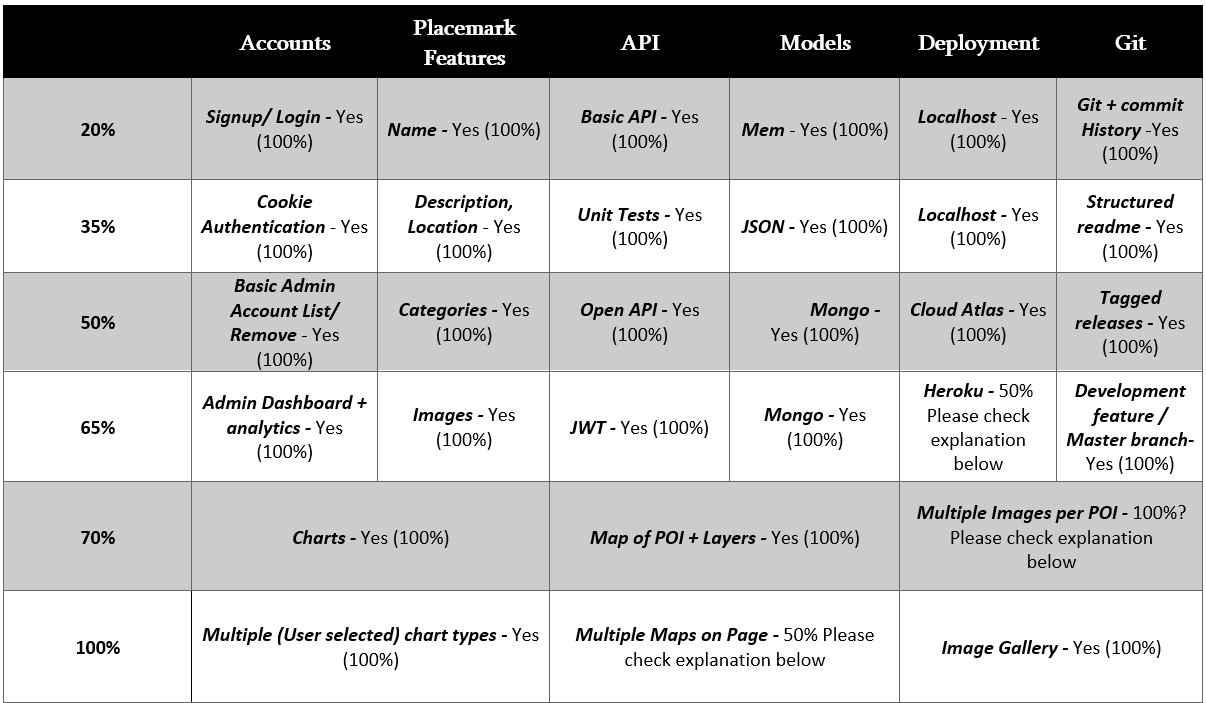
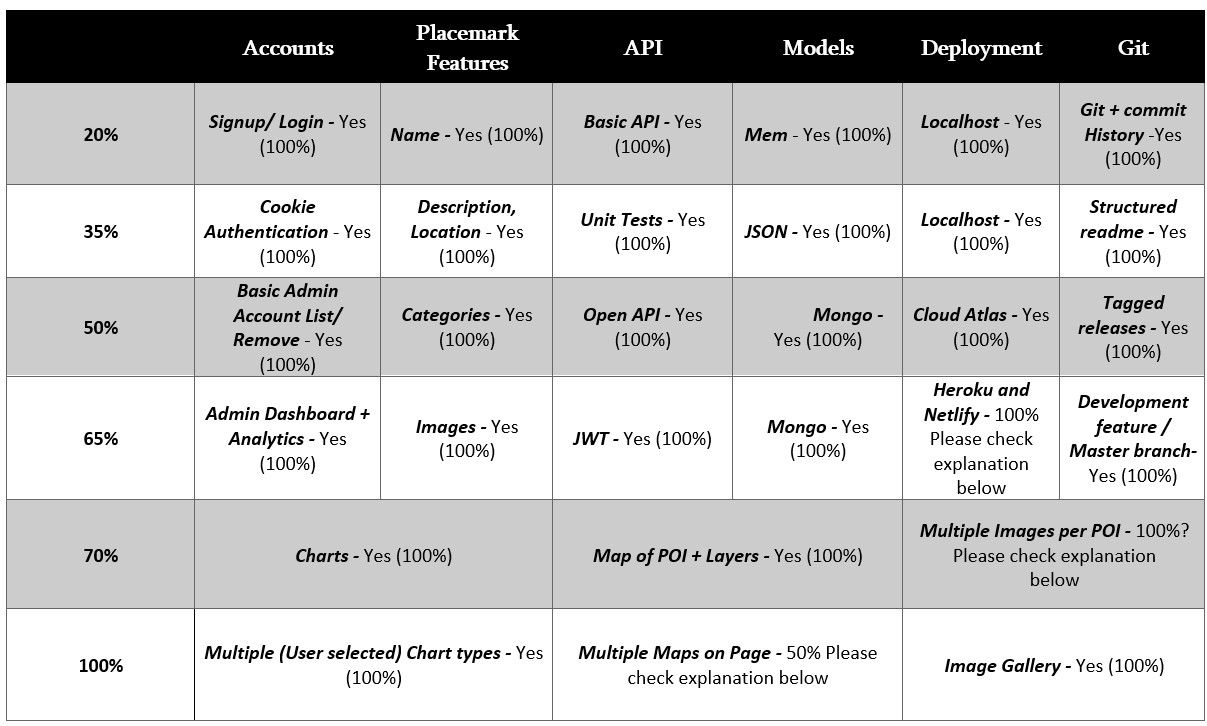
Changed grading_rubric and readme

diff --git a/README.md b/README.md
@@ -3,10 +3,10 @@
 
 * Check it out in [this](https://github.com/linusschlepp/Assignment_KASD) GitHub repository. <br>
 * Check out [my video](https://www.youtube.com/watch?v=ve4w8w2bVUw&ab_channel=LinusSchlepp) about this project.
+* Deployed [Backend](https://polar-bayou-58717.herokuapp.com) on Heroku (contains a mocking-frontend for testing purposes, **not the actual frontend!**)
+* Deployed [Frontend](https://timely-crisp-7c2172.netlify.app) on Netlify (actual frontend)
 
- Notice: This project contains [Handlebars](https://handlebarsjs.com/), handlebars has only been implemented for testing purposes and is <u>not</u> meant to be used for the frontend. 
- The "handelbar-mock-frontend" is also visible on Heroku, because I only managed to deploy the backend on Heroku and like previously mentioned, it was only 
- implemented to browse and to test the backend features because it was developed before the frontend.
+ Notice: This project contains [Handlebars](https://handlebarsjs.com/), handlebars has only been implemented for testing the backend because it has been implemented before the actual frontend, it is **not** meant to be used.
 ##### So please consider: The frontend on Heroku is not the actual front end of this project. It's just a mockup!
 
 ## About
@@ -47,11 +47,11 @@ In the following I will discuss the grading rubric row by row:
 * In the first row every task has been completed. Regarding git, just run: ``git log`` to inspect the commit history. I have also implemented a mem-store, which is never used because, mongo is the standard.
 * In the second row every task has been completed. A json-store has also been implemented but is never used as well. 
 * In the third row every task has been completed. To check out the tagged releases, by running: ``git tag``.
-* In the fourth row every task has been completed. The hosting on Heroku was only partially implemented, only the backend is hosted on Heroku, the backend uses Handlebars to enable browsing, therefore the frontend on Heroku is just a very simple Mockup and <u>not</u> the actual frontend of this assignment! To check out the different branches just run: ``git branch``. To access the admin Dashboard use the ```admin@admin.com``` account with password: ```admin``` or  create an account with the email ```placemark@admin.com``` and admin-rights will be assigned automatically.
+* In the fourth row every task has been completed. The backend is hosted on Heroku (the backend possesses a mockup-frontend **(not the actual frontend)**). The actual frontend is hosted on Netlify and communicates with the backend via the api. To check out the different branches just run: ``git branch``. To access the admin Dashboard use the ```admin@admin.com``` account with the password: ```admin``` or  create an account with the email ```placemark@admin.com``` and admin-rights will be assigned automatically.
 * In the fifth row every task has been completed. At least I hope so... I am not particular sure regarding the last column of this row, because in my implementation one category can hold multiple placemarks and every placemark can hold one image. Therefore, one category has multiple images. So, I am not sure, if this satisfies the requirement.
 * In the sixth row every task has been completed. In the second column, I was only able to implement one map per page in assignment. 
 
 ## Resources
 
-* The [link](https://icon-icons.com/de/symbol/anzeigen/42272) for the favicon is used
-* The [link](https://icon-icons.com/de/symbol/Reisen-Karte-Lage-pin/109805) for the placemark-logo, which is displayed at the start and on the Titlebar
+* The [link](https://icon-icons.com/de/symbol/anzeigen/42272) for the favicon I used
+* The [link](https://icon-icons.com/de/symbol/Reisen-Karte-Lage-pin/109805) for the placemark-logo, which is displayed at the start and on the TitleBar
